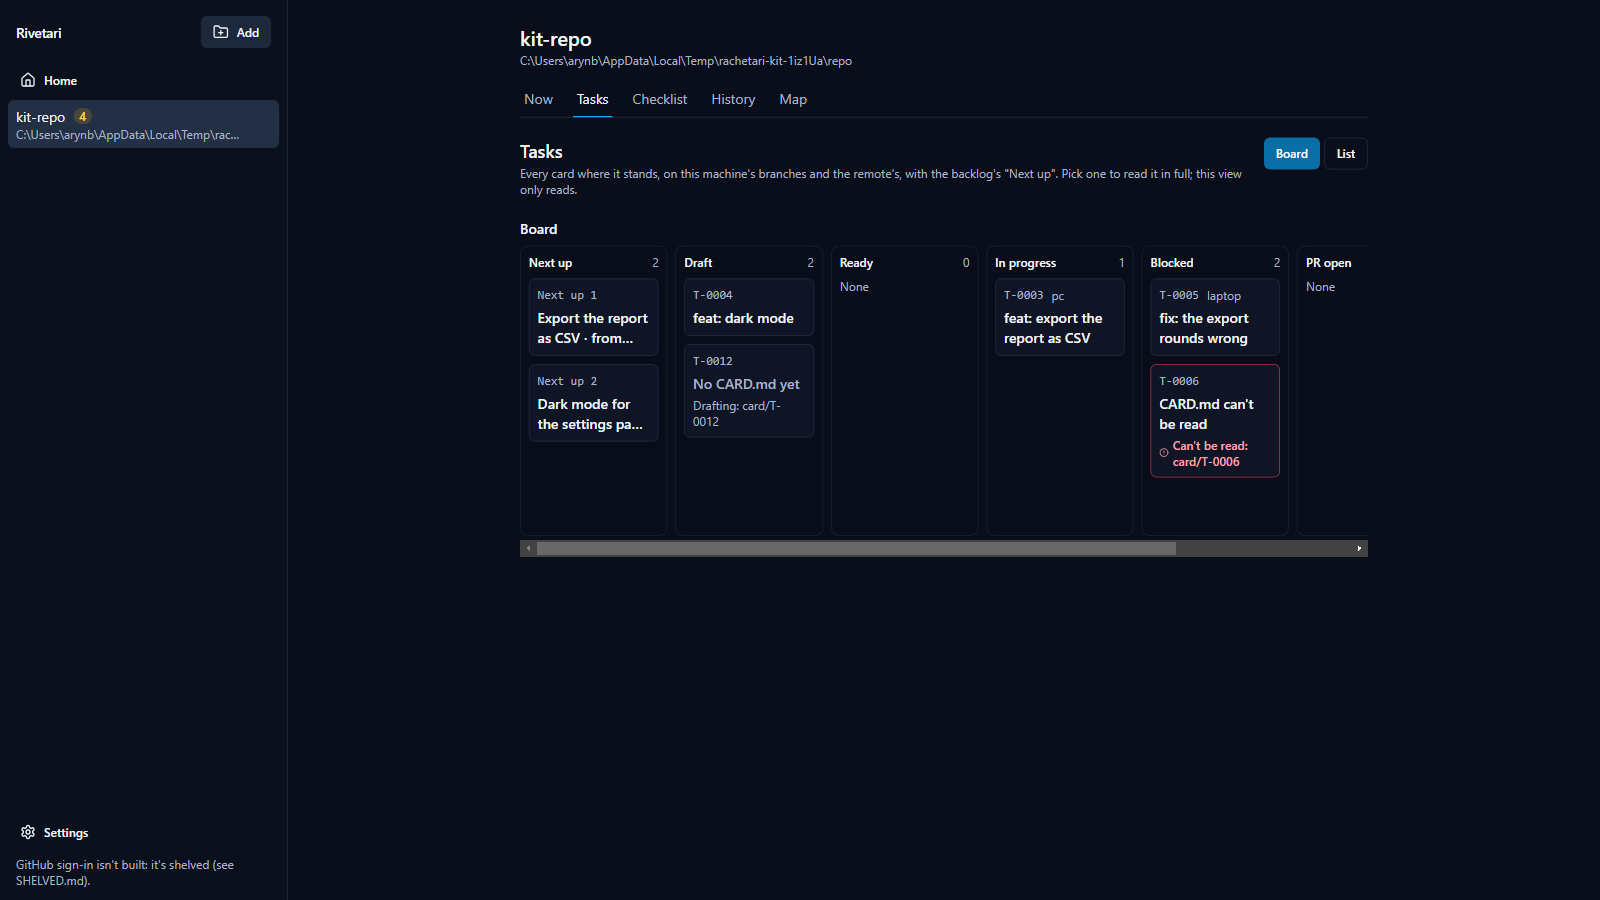
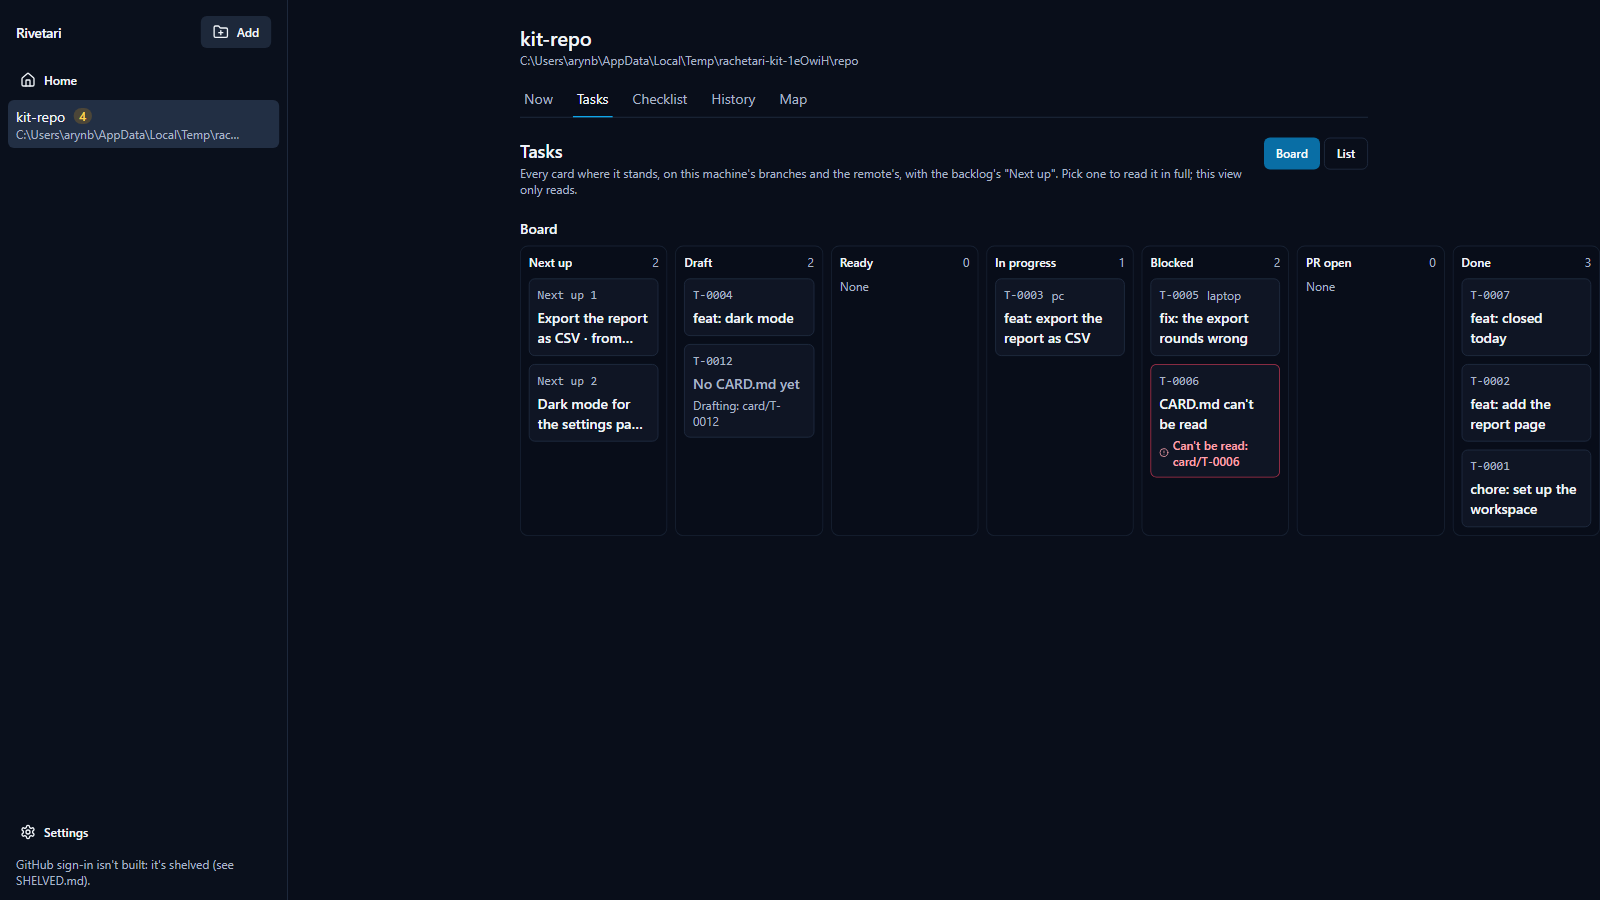
test(shell): show all seven columns in the branch-states screenshot
Also drops three Tasks screenshots committed by mistake.

Card: T-0018

Changed region(s): [[0.3125, 0.5911, 0.875, 0.6222], [0.9062, 0.28, 1.0, 0.5911], [0.5, 0.0622, 0.5312, 0.0933]]

diff --git a/apps/desktop/e2e/branch-states.e2e.ts b/apps/desktop/e2e/branch-states.e2e.ts
@@ -97,8 +97,12 @@ test("Tasks greys a drafting branch and shows a done branch under Done", async (
 
   const dir = process.env.SCREENSHOT_DIR;
   if (dir) {
-    // Wide enough for all seven columns, Done included.
+    // Wide enough for all seven columns, Done included: the board's scroller
+    // is let out for the picture only.
     await page.setViewportSize({ width: 1600, height: 900 });
+    await board
+      .locator("div.overflow-x-auto")
+      .evaluate((el) => (el.style.overflow = "visible"));
     await page.screenshot({
       path: join(dir, "tasks-branch-states.png"),
       fullPage: true,
